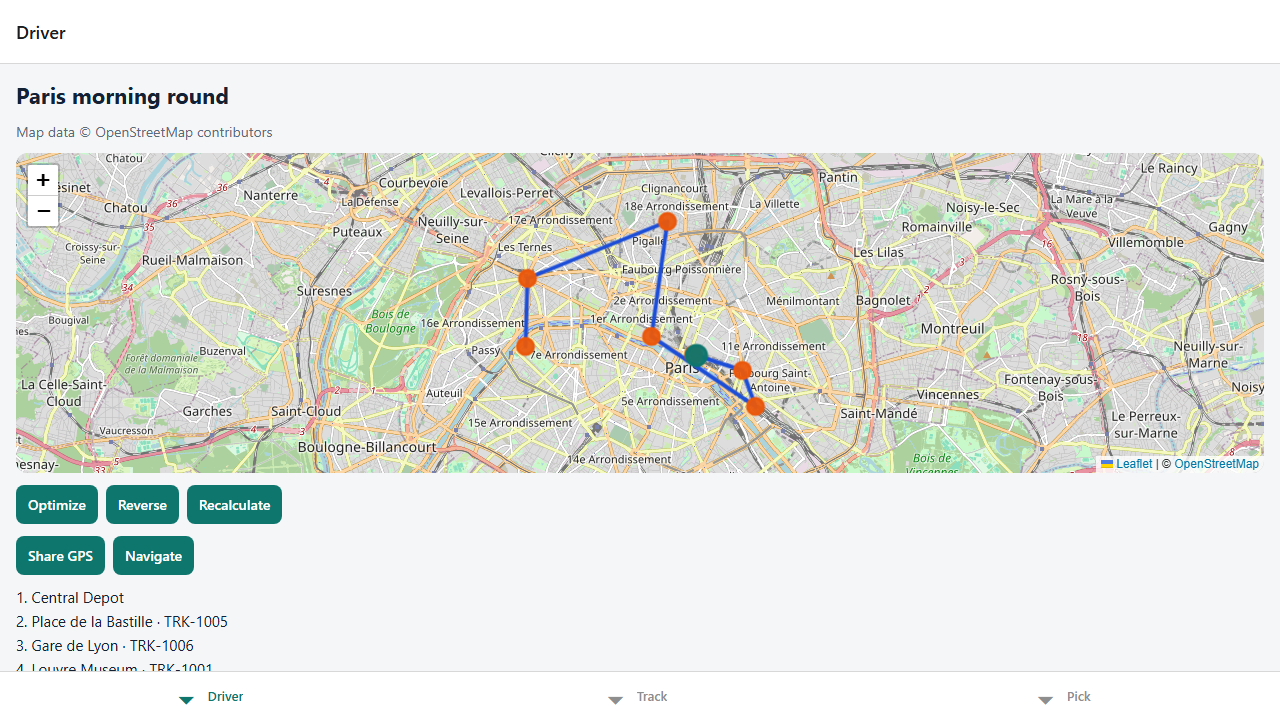
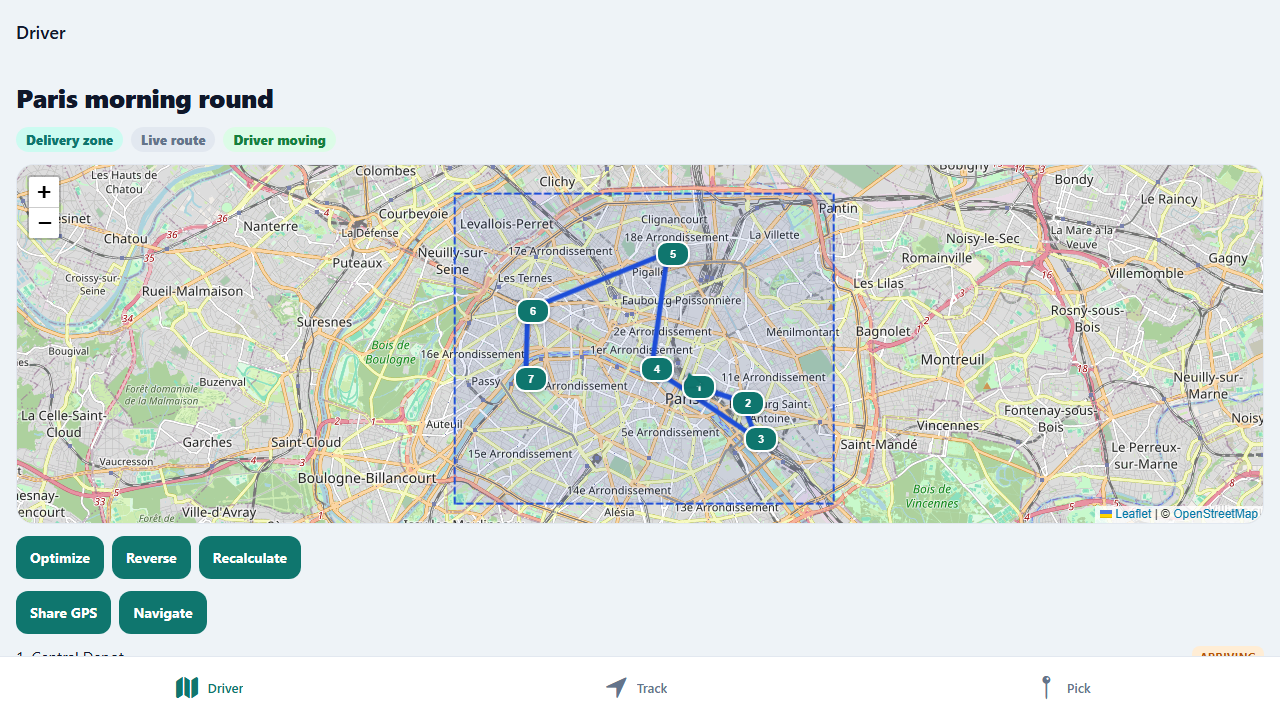
Document the map demo for reviewers.

diff --git a/e2e/web.spec.ts b/e2e/web.spec.ts
@@ -25,6 +25,18 @@ test('search picks an address label', async ({ page }) => {
   await page.screenshot({ path: 'docs/screenshots/pick.png', fullPage: true });
 });
 
+test('navigation shows the next instruction', async ({ page }) => {
+  await page.goto('/');
+  await page.getByTestId('navigate-button').click();
+  await expect(page.getByTestId('nav-step')).not.toHaveText('Loading the leg…');
+  await page
+    .locator('[data-testid="map-canvas"]:visible .leaflet-tile-loaded')
+    .first()
+    .waitFor({ timeout: 10_000 });
+  await page.waitForTimeout(800);
+  await page.screenshot({ path: 'docs/screenshots/navigate.png', fullPage: true });
+});
+
 test('optimize changes the stop order', async ({ page }) => {
   await page.goto('/');
   await expect(page.getByTestId('stop-list')).toContainText('Eiffel Tower');

diff --git a/README.md b/README.md
@@ -1,17 +1,72 @@
 # Delivery Route Tracker
 
-A small courier demo: one driver, a tour of stops, and a tracking code a customer can follow on a map.
+A courier map I can demo on a phone: one driver, a tour of stops, and a tracking code a customer can follow. The map work is React Native on OpenStreetMap, with routing and geocoding from OSRM and Nominatim, so the project does not need an API key.
 
-The Expo app runs on iOS, Android and the web. The NestJS API plans the route, geocodes addresses and streams the driver over a WebSocket. Maps, routing and geocoding use free OpenStreetMap services, so the project does not need an API key. A mock mode keeps tests and the offline demo deterministic.
+![Live tracking demo](docs/demo.gif)
 
 ## Features
 
-- Driver tour map with stop markers, the route line, and Optimize, Reverse and Recalculate.
-- Turn-by-turn leg with off-route detection and a delayed reroute, plus a link out to OpenStreetMap directions.
-- Live parcel tracking: animated driver, remaining route, ETA and a connection state.
-- Drop-off picker: search, drag the pin, reverse geocode, and save the pin onto a tracking code.
-- Optional GPS sharing from a device. On the web, a server-side simulator walks the driver along the route.
-- Shared geometry package: polyline encode and decode, haversine, off-route distance, navigation progress and a nearest-neighbour plus 2-opt stop order.
+**Live tracking.** A WebSocket stream moves the driver, updates the ETA, and draws the road still left. On the web a simulator walks the route, so the screen moves with no phone.
+
+![Live tracking](docs/screenshots/track.png)
+
+**Route planning.** The driver tour draws the road, numbered stops, and the delivery zone. Optimize, Reverse, and Recalculate reorder the round and rebuild the geometry. The depot stays first.
+
+![Driver tour](docs/screenshots/driver.png)
+
+**Drop-off picker.** Search an address, drag the pin, or tap the map. The pin is reverse-geocoded, and a save is rejected when it falls outside the delivery zone.
+
+![Address search](docs/screenshots/pick.png)
+
+**Turn-by-turn.** One leg at a time, with the next instruction, distance left, and a delayed reroute when the driver leaves the line. Open the same leg in OpenStreetMap.
+
+![Navigation](docs/screenshots/navigate.png)
+
+**Geofences.** Every stop has a circle. Entering it marks the stop *arriving* and tells anyone watching that tracking code. Leaving it marks the stop *arrived*. The blue ring is the zone a drop-off must stay inside.
+
+## What I built
+
+- Shared geometry in `packages/geo`: polyline encode and decode, haversine, nearest-neighbour plus 2-opt ordering, off-route distance, navigation progress, circle and polygon geofences, and an enter/exit tracker.
+- A NestJS API that calls OSRM and Nominatim, falls back when they fail, and streams driver fixes over a WebSocket. Positions are throttled. Reroutes are limited to one per tour per window.
+- An Expo app (SDK 57) with the same map on web (`react-leaflet`) and on iOS/Android (`react-native-maps` with OpenStreetMap tiles, no Google key). Numbered pins, a driver arrow that follows the heading, and a camera that eases toward the driver on the tracking screen.
+
+The seeded tour is `tour-paris` (driver `driver-1`). Drop-off codes are `TRK-1001` through `TRK-1006`. Paris is only the sample data in `apps/api/src/tours/seed.ts`.
+
+## Run it in 2 minutes
+
+Requires Node.js 20 or newer.
+
+```bash
+npm install
+npm run build -w @tracker/geo
+cp apps/api/.env.example apps/api/.env
+cp apps/mobile/.env.example apps/mobile/.env
+npm run dev
+```
+
+On Windows PowerShell, copy the env files with `Copy-Item` instead of `cp`.
+
+`npm run dev` starts the API on port 3000 and the web app on port 8081. Open http://localhost:8081. `SIMULATE_DRIVER=true` in the API env, so the driver moves on its own. Interactive API docs: http://localhost:3000/docs.
+
+### On a phone
+
+The app matches current Expo Go (SDK 57). From `apps/mobile`:
+
+```bash
+npx expo start
+```
+
+Set `EXPO_PUBLIC_API_URL` in `apps/mobile/.env` to your computer's LAN address, for example `http://192.168.1.4:3000`, not `localhost`. The API listens on all interfaces. Scan the QR code with Expo Go.
+
+Custom OpenStreetMap tiles need a development build on Android and iOS when Expo Go's map view cannot load a `UrlTile`. The web build is the zero-setup demo. Android's default map provider is Google Maps and may still ask for a key even when `mapType` is `none`. The native screen hides that base map and draws OSM tiles on top.
+
+### Docker
+
+```bash
+docker compose up --build
+```
+
+That serves the API only, with the simulator on. Point `EXPO_PUBLIC_API_URL` at `http://localhost:3000`.
 
 ## Architecture
 
@@ -45,41 +100,13 @@ flowchart LR
   api --- geoPkg
 ```
 
-The seeded tour is `tour-paris` (driver `driver-1`). Drop-off codes are `TRK-1001` through `TRK-1006`. Paris is only the sample data in `apps/api/src/tours/seed.ts`.
-
-## Quick start
-
-Requires Node.js 20 or newer.
-
-```bash
-npm install
-npm run build -w @tracker/geo
-cp apps/api/.env.example apps/api/.env
-cp apps/mobile/.env.example apps/mobile/.env
-npm run dev
-```
-
-`npm run dev` starts the API on port 3000 and the web app on port 8081. Open http://localhost:8081.
-
-For a phone, install a dev client (`npx expo start` inside `apps/mobile`, then Expo Go or a development build) and point `EXPO_PUBLIC_API_URL` at your computer's LAN address. Custom OpenStreetMap tiles need a development build on Android and iOS: Expo Go's map view cannot always load a `UrlTile`. The web build is the zero-setup demo.
-
-Android's default map provider is Google Maps and may still ask for a key even when `mapType` is `none`. The native screen hides that base map and draws OSM tiles on top. If the tiles do not appear, create a development build and leave the Google key unset only when the platform allows it. iOS uses Apple Maps under the same tile overlay.
-
-### Docker
-
-```bash
-docker compose up --build
-```
-
-That serves the API only. Point the app's `EXPO_PUBLIC_API_URL` at `http://localhost:3000`.
-
 ## Provider modes
 
 | Variable | Values | Default |
 | --- | --- | --- |
 | `ROUTING_PROVIDER` | `osrm`, `straight`, `mock` | `osrm` |
 | `GEOCODING_PROVIDER` | `nominatim`, `mock` | `nominatim` |
-| `SIMULATE_DRIVER` | `true` or `false` | `false` |
+| `SIMULATE_DRIVER` | `true` or `false` | `true` |
 
 `osrm` calls `OSRM_URL` (`/route` and `/trip`). If the request fails, the API falls back to straight lines. `straight` always uses haversine. `mock` is the same geometry with canned durations, for tests.
 
@@ -94,24 +121,20 @@ NOMINATIM_URL=http://localhost:8088
 
 [OSRM backend](https://github.com/Project-OSRM/osrm-backend) and [Nominatim](https://nominatim.org/release-docs/latest/admin/Installation/) both publish Docker images. Tests and CI never call those public servers: they set `ROUTING_PROVIDER=mock` and `GEOCODING_PROVIDER=mock`.
 
-`SIMULATE_DRIVER=true` moves `driver-1` along the current route so the tracking screen works without a phone.
-
 ## HTTP API
-
-Interactive docs: http://localhost:3000/docs
 
 | Method | Path | Purpose |
 | --- | --- | --- |
 | `GET` | `/health` | Process status and the active providers |
 | `GET` | `/tours` | Seeded tours |
-| `GET` | `/tours/:id` | One tour, including its stops and route |
+| `GET` | `/tours/:id` | One tour, including its stops, delivery zone, and route |
 | `GET` | `/tours/:id/route` | Overview polyline, legs and ETAs |
 | `POST` | `/tours/:id/optimize` | Reorder stops, keep the depot first, save the new route |
 | `POST` | `/tours/:id/reverse` | Reverse the drop-offs, keep the depot first |
 | `POST` | `/tours/:id/recalculate` | Rebuild the road geometry for the current order |
 | `GET` | `/tours/:id/navigation?stopId&originLat&originLng` | One leg and its steps |
 | `GET` | `/tracking/:code` | Destination, latest driver fix, remaining line, ETA |
-| `PUT` | `/tracking/:code/location` | Move that drop-off (`lat`, `lng`, optional `label`) |
+| `PUT` | `/tracking/:code/location` | Move that drop-off. `400` when the pin is outside the delivery zone |
 | `POST` | `/drivers/:id/position` | Driver fix (`lat`, `lng`, optional `heading`). Throttled. |
 | `GET` | `/geocode/search?q&limit` | Forward geocode |
 | `GET` | `/geocode/reverse?lat&lng` | Reverse geocode |
@@ -119,8 +142,6 @@ Interactive docs: http://localhost:3000/docs
 ## WebSocket
 
 Connect to `ws://localhost:3000/live`. Frames are JSON objects `{ "event", "data" }`.
-
-Subscribe:
 
 ```json
 { "event": "subscribe", "data": { "trackingCode": "TRK-1001" } }
@@ -135,9 +156,10 @@ Subscribe:
 | `driver_position` | A fix was stored for a tour you can hear |
 | `eta_updated` | Remaining time for a tracking code changed |
 | `route_updated` | The driver drifted off the line and a reroute was allowed |
+| `geofence` | The driver entered or left a stop circle (`type` is `enter` or `exit`) |
 | `pong` | Reply to `{ "event": "ping" }` |
 
-Reroutes are limited to one per tour per `REROUTE_THROTTLE_MS` (three minutes by default). Positions closer than `POSITION_MIN_MOVE_KM` and sooner than `POSITION_MIN_INTERVAL_MS` are dropped.
+A `geofence` frame looks like `{ "tourId", "stopId", "trackingCode", "type" }`. Reroutes are limited to one per tour per `REROUTE_THROTTLE_MS` (three minutes by default). Positions closer than `POSITION_MIN_MOVE_KM` and sooner than `POSITION_MIN_INTERVAL_MS` are dropped.
 
 ## Tests
 
@@ -151,19 +173,11 @@ npm run typecheck
 
 `npm run test:web` boots the API on port 3099 with the simulator on, then Expo web on port 8081. Install a browser once with `npx playwright install chromium`.
 
-## Screenshots
-
-The web app, with the API in mock mode and the driver simulator on.
-
-| Driver | Track | Pick |
-| --- | --- | --- |
-| ![Driver tour after optimize](docs/screenshots/driver.png) | ![Live tracking](docs/screenshots/track.png) | ![Address search](docs/screenshots/pick.png) |
-
 ## Project layout
 
 - `packages/geo` — pure TypeScript shared by the API and the app
 - `apps/api` — NestJS 11
-- `apps/mobile` — Expo SDK 54, Expo Router, React Query, Zustand
+- `apps/mobile` — Expo SDK 57, Expo Router, React Query, Zustand
 - `e2e` — Playwright
 
 Map data © [OpenStreetMap](https://www.openstreetmap.org/copyright) contributors.
